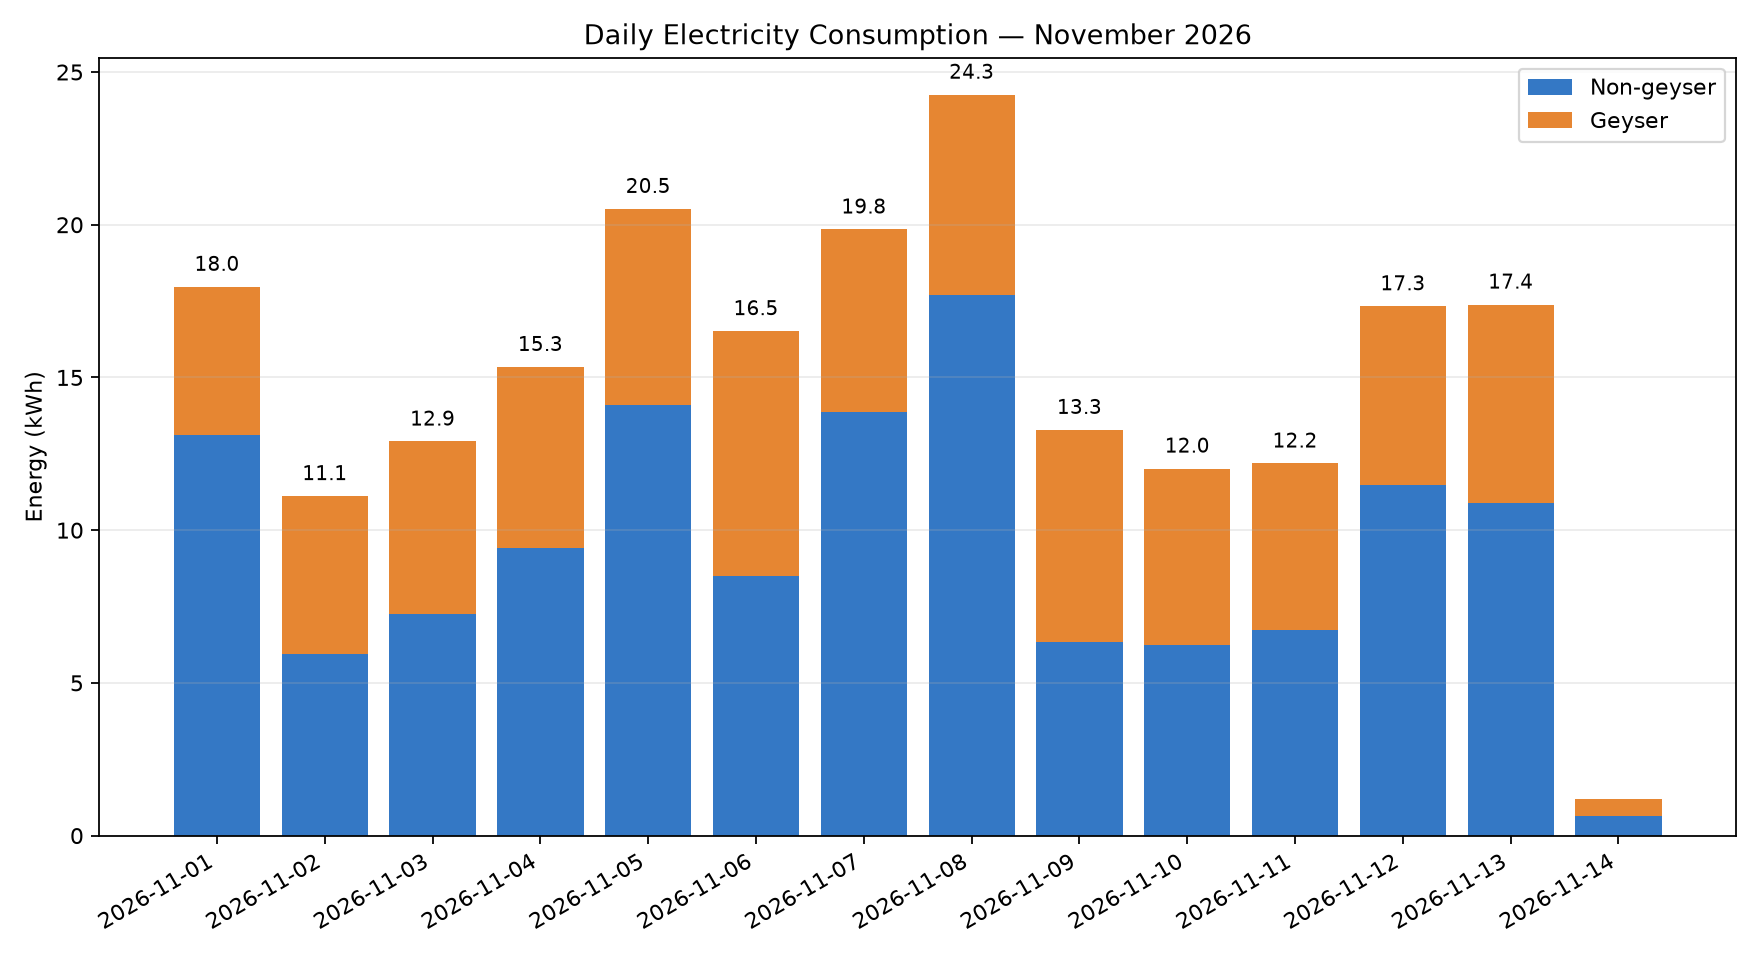
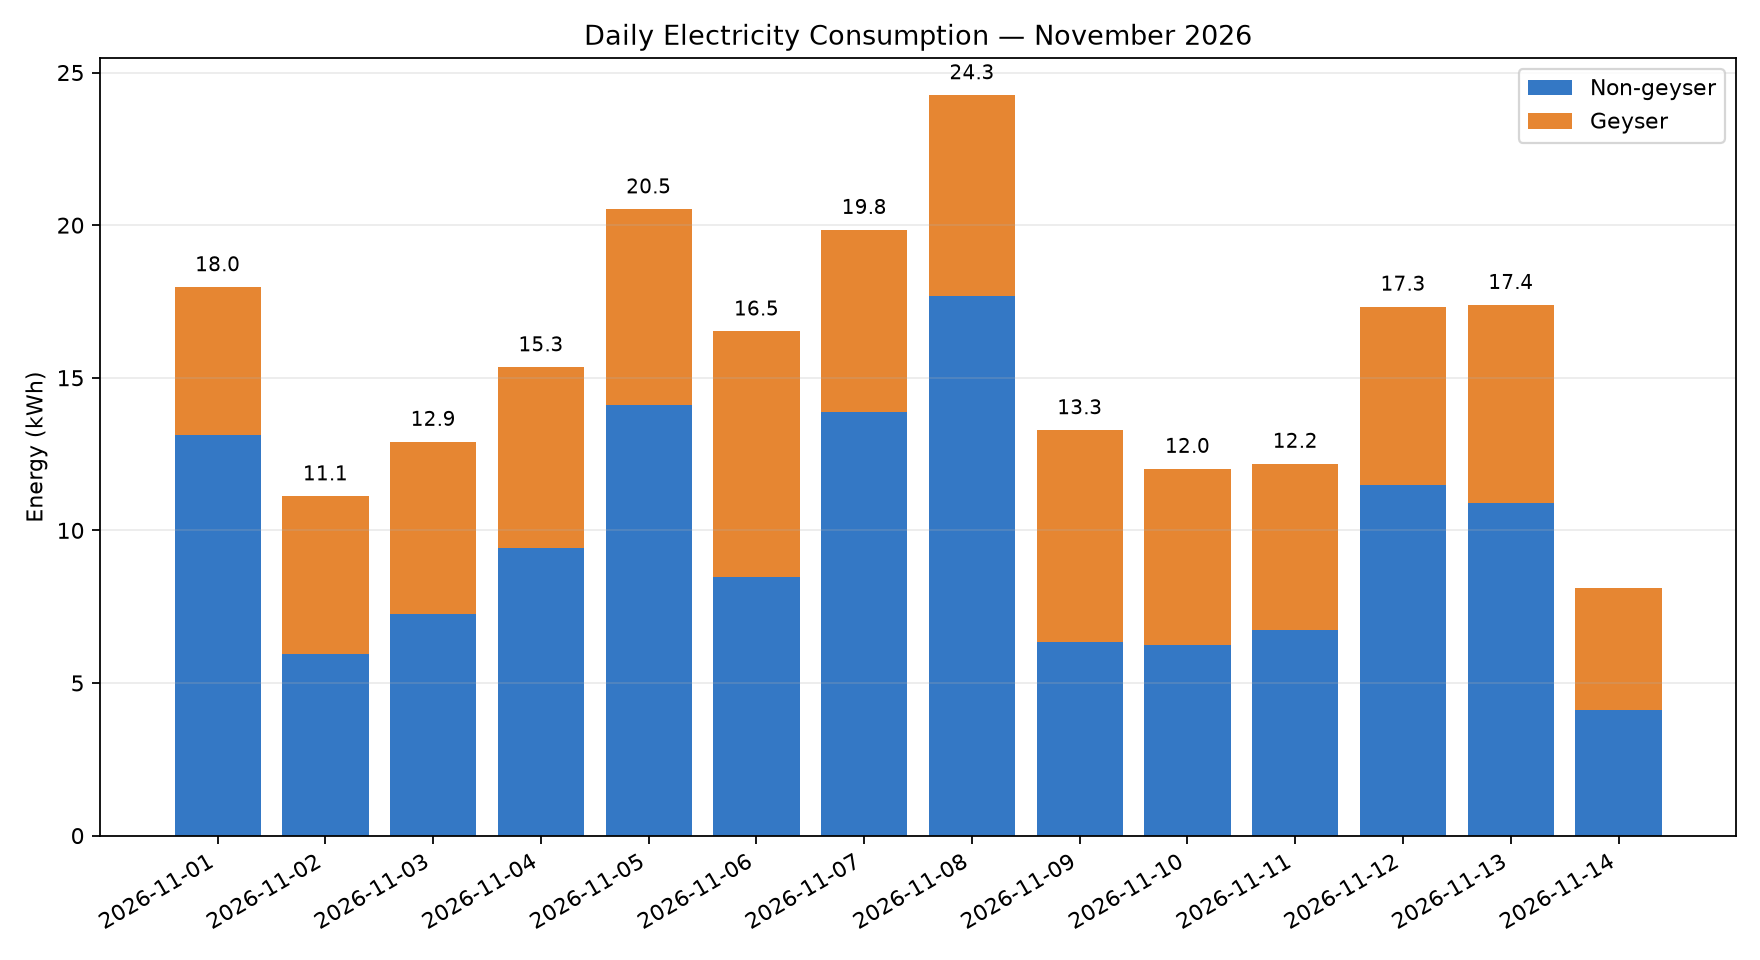
Small tweaks to reporting in the db check

diff --git a/check_solar_database.py b/check_solar_database.py
@@ -1,12 +1,31 @@
 #!/usr/bin/env python3
 from solar_db import connect_database, database_backend, database_label
 
+
+def format_gap(seconds):
+    total_seconds = int(round(float(seconds)))
+    hours, remainder = divmod(total_seconds, 3600)
+    minutes, seconds = divmod(remainder, 60)
+    return f"{hours:02d}:{minutes:02d}:{seconds:02d}"
+
+
 con = connect_database()
 
 print("========================================")
 print("Solar database integrity check")
 print("========================================")
 print(f"Database: {database_label()}")
+
+if database_backend() in {"postgres", "postgresql"}:
+    database_size_bytes = con.execute(
+        "SELECT pg_database_size(current_database())"
+    ).fetchone()[0]
+else:
+    page_count = con.execute("PRAGMA page_count").fetchone()[0]
+    page_size = con.execute("PRAGMA page_size").fetchone()[0]
+    database_size_bytes = page_count * page_size
+
+print(f"Database storage: {database_size_bytes / 1_000_000:.2f} MB")
 
 # Overall range/count
 row = con.execute("""
@@ -94,7 +113,7 @@ gaps = con.execute(f"""
 """).fetchall()
 
 for previous, current, seconds in gaps:
-    print(f"{seconds:>10.3f}s  {previous} -> {current}")
+    print(f"{format_gap(seconds):>10}  {previous} -> {current}")
 
 # Extraction history
 print("\nExtraction runs:")

diff --git a/README.md b/README.md
@@ -810,6 +810,11 @@ Role: solar_app
 The MacBook's `solar_meter.db` is the SQLite copy retained after migration. The
 mini is the active collection and reporting host.
 
+The partial September 2026 meter import (28–30 September) was removed from the
+active PostgreSQL database because it covered only the last few days of the
+month. Daily and hourly analysis tables were rebuilt afterward. The SQLite
+fallback and archived source/backup files were left unchanged.
+
 The main raw table is:
 
 ```text
@@ -846,6 +851,11 @@ hourly_load_profile
 ```
 
 The derived objects can safely be rebuilt from the raw data.
+
+Run `python3 check_solar_database.py` to review database counts, duplicate
+timestamps, database storage size, recent daily coverage, extraction history,
+and the 15 largest timestamp gaps. Gap durations are displayed as `HH:MM:SS`;
+storage is shown in megabytes (MB).
 
 ---
 
